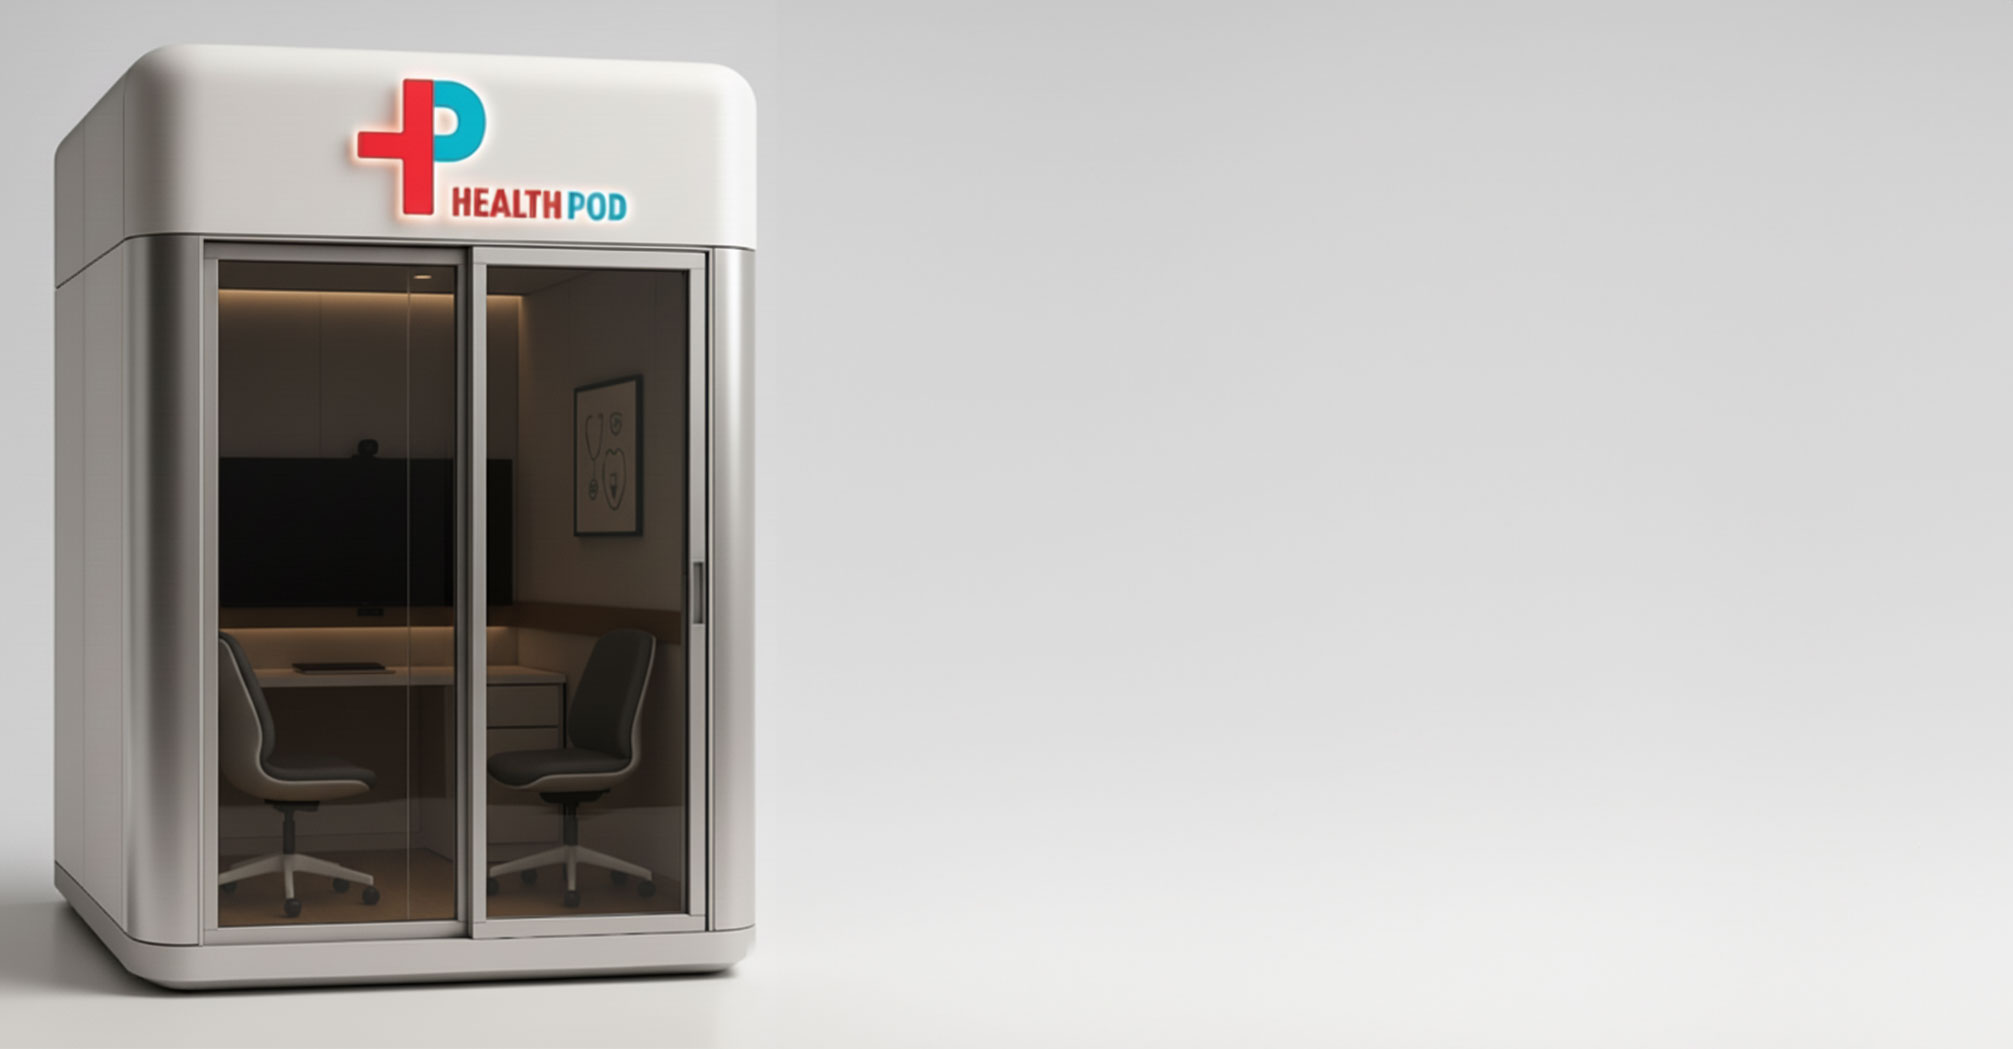
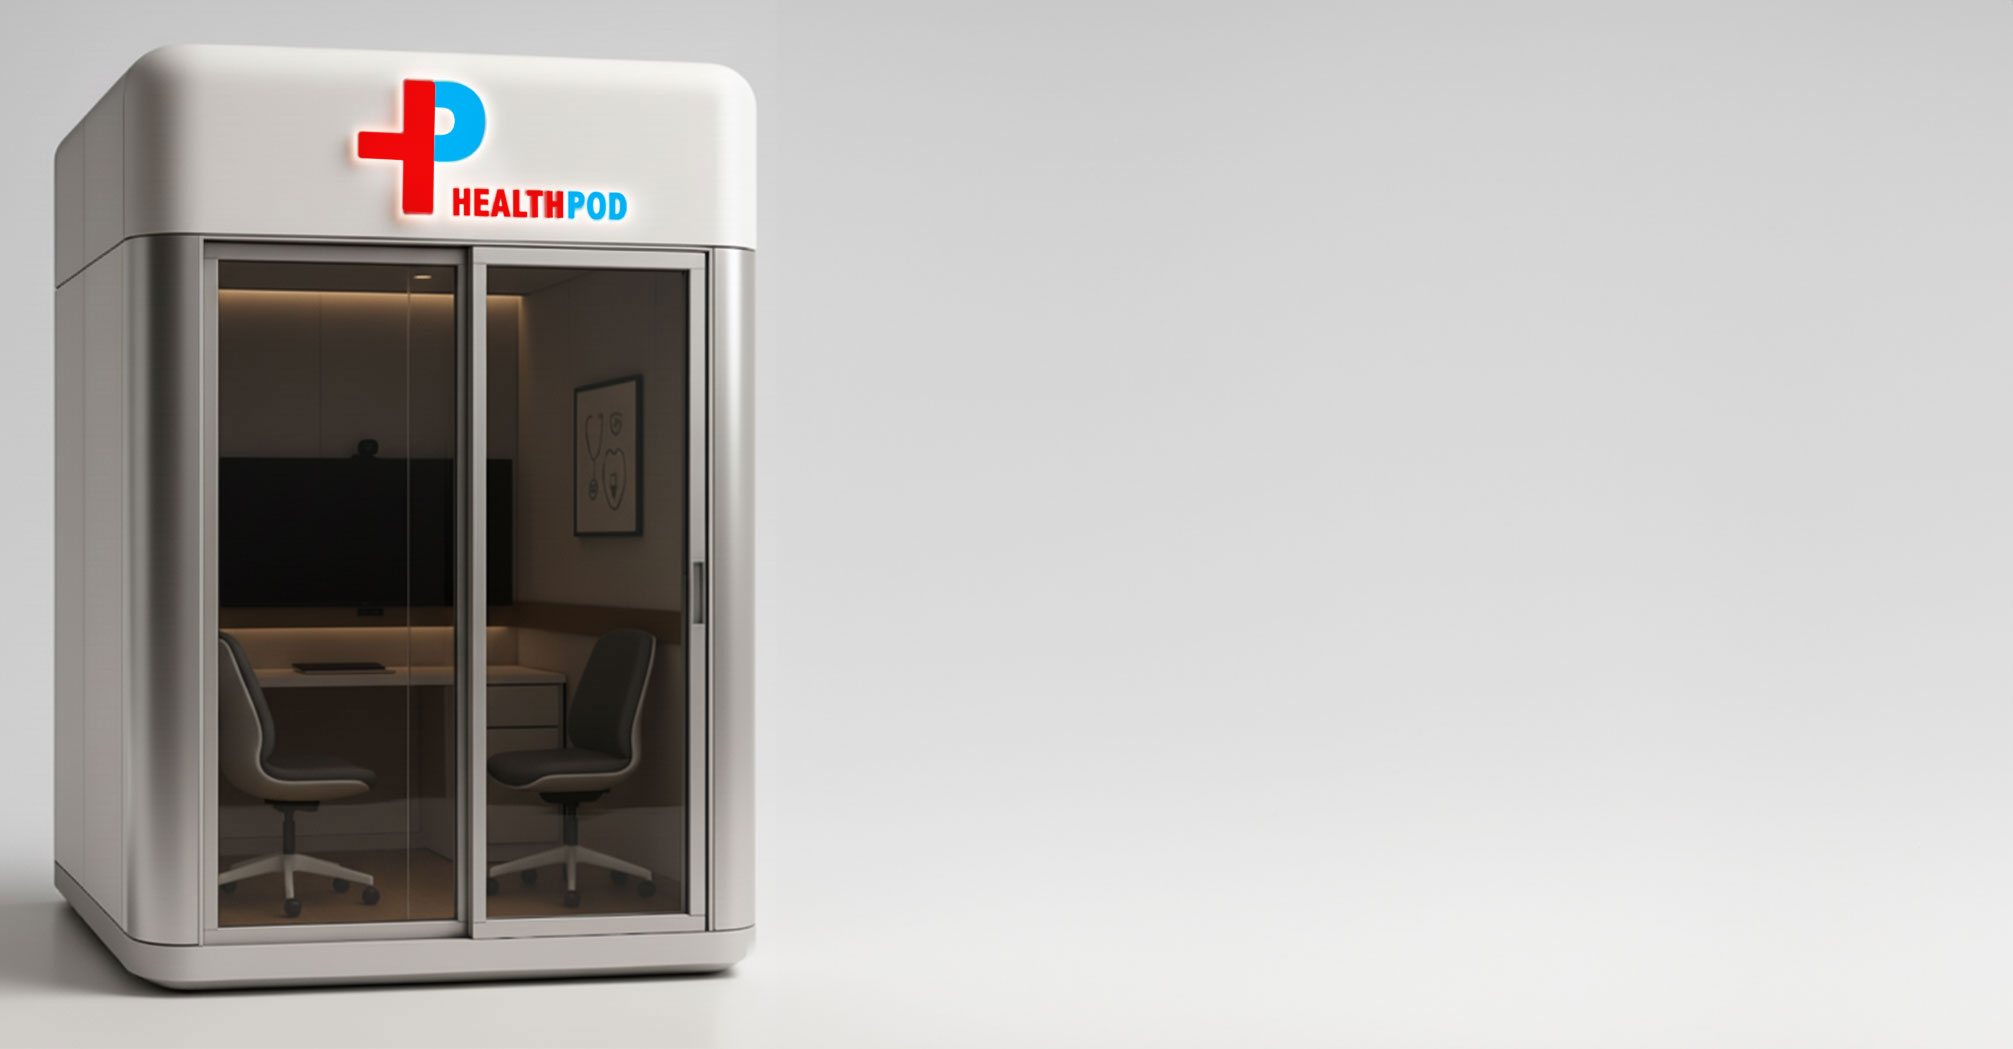
Cambios de colores y optimización de imagenes

Changed region(s): [[0.154, 0.061, 0.308, 0.2135]]

diff --git a/index.html b/index.html
@@ -38,7 +38,7 @@
       <nav class="navbar navbar-expand-lg">
         <div class="container">
           <a class="navbar-brand" href="#">
-            <img height="150" width="70" class="logo logo-dark" src="assets/images/icons/healthpod_logo.png"
+            <img height="150" width="70" class="logo logo-dark" src="assets/images/logo/healthpod-logo.png"
               alt="HealthPod Logo" />
           </a>
 
@@ -79,7 +79,7 @@
     <div class="carousel-hero-banner">
         <div class="carousel-images">
             <div class="carousel-slide active">
-                <img src="assets/images/background/Hero_Section-black.png" alt="Image 1">
+                <img src="assets/images/background/Hero_Section-black.jpg" alt="Image 1">
                       <div class="container">
         <div class="row row-content">
           <div id="lq-glass" class="col-12 col-md-6 col-lg-6">
@@ -102,7 +102,7 @@
       </div>
             </div>
             <div class="carousel-slide">
-                <img src="assets/images/background/Hero_Section-black(2).png" alt="Image 2">
+                <img src="assets/images/background/Hero_Section-black(2).jpg" alt="Image 2">
       <div class="container">
         <div class="row row-content">
           <div id="lq-glass" class="col-12 col-md-6 col-lg-6">
@@ -199,7 +199,7 @@
           <div class="col-md-4">
             <div class="pharmacy-card">
               <h3 class="heading-title">Videoconsultas en Pods: Tu espacio privado de salud.</h3>
-              <img src="assets/images/Imagery/consulta-en-pod.png" alt="Consulta médica por videollamada"
+              <img src="assets/images/Imagery/consulta-en-pod.jpg" alt="Consulta médica por videollamada"
                 class="img-fluid rounded mb-3">
               <p class="fw-medium">Atiende tus consultas médicas en cabinas diseñadas para tu comodidad, privacidad y bienestar. 
                 Video consultas Médicas Ilimitadas.</p>
@@ -210,7 +210,7 @@
           <div class="col-md-4">
             <div class="pharmacy-card">
               <h3 class="heading-title">Farmacia virtual 24/7: Medicamentos sin salir de casa.</h3>
-              <img src="assets/images/Imagery/pharmacy2.png" alt="Solicita tu medicamento"
+              <img src="assets/images/Imagery/pharmacy2.jpg" alt="Solicita tu medicamento"
                 class="img-fluid rounded mb-3">
               <p class="fw-medium">Accede a nuestra farmacia virtual 24/7 con entrega a domicilio gratuita y soporte personalizado.</p>
             </div>
@@ -240,17 +240,17 @@
 
           <!-- Columna de la imagen (ahora a la izquierda) -->
           <div class="col-12 col-md-6 col-lg-6">
-            <img class="img-fluid img-shadow pull-left" src="assets/images/features/about.png" alt="about" />
+            <img class="img-fluid img-shadow pull-left" src="assets/images/Imagery/about-healthpod.jpg" alt="about" />
           </div>
           <!-- .col-md-6 end -->
 
           <!-- Columna del contenido (ahora a la derecha) -->
           <div class="col-12 col-md-6 col-lg-6">
             <div class="heading heading-1 mb-50 mt-30">
-              <h2 class="heading-title">Somos <strong style="color:#CB3631;">HEALTH<span
-                    style="color:#56A9DD;">POD</span></strong></h2>
+              <h2 class="heading-title">Somos <strong style="color: #df0808;">HEALTH<span
+                    style="color:#00adef;">POD</span></strong></h2>
               <p class="heading-desc">
-                <strong style="color:#CB3631;">HEALTH<span style="color:#56A9DD;">POD</span></strong>: el
+                <strong style="color:#df0808;">HEALTH<span style="color:#00adef;">POD</span></strong>: el
                 ecosistema de salud que mereces, disponibles todo el tiempo y en donde te encuentres. Unimos el
                 diagnóstico físico de alta precisión con tecnología de punta, consultas profesionales en tiempo real y
                 farmacia a domicilio 24/7 para que nunca te preocupes, todo con solo una membresía.
@@ -287,12 +287,12 @@
 
     <!-- Motivation -->
     <section id="motivation" class="motivation text-center section feature feature-left bg-white"
-      style="background-image: url(assets/images/background/site_background.png);">
+      style="background-image: url(assets/images/background/site_background.jpg);">
       <div class="container">
         <img src="assets/images/icons/star.svg" alt="Consulta médica por videollamada" class="img-fluid rounded mb-3">
         <h2 class="mb-4">¡Lo que nos motiva!</h2>
-        <p class="heading-desc">En <strong style="color:#CB3631;">HEALTH<span
-              style="color:#56A9DD;">POD</span></strong> nos mueve una idea clara: Tu salud es siempre lo más
+        <p class="heading-desc">En <strong style="color:#df0808;">HEALTH<span
+              style="color:#00adef;">POD</span></strong> nos mueve una idea clara: Tu salud es siempre lo más
           importante. Creemos en la tecnología como un puente para una mejor salud, de alto nivel y largo alcance. A
           cada persona cuidaremos en cada consulta, cada visita al Pod y en cada medicamento entregado.
         </p>
@@ -317,7 +317,7 @@
           </div>
           <div class="col">
             <div class="feature-icon">
-              <img src="assets/images/icons/healthpod_logo-page.png" alt="Farmacia cercana"
+              <img src="assets/images/icons/hand_and_heart.png" alt="Farmacia cercana"
                 class="img-fluid rounded mb-3">
             </div>
             <p class="fw-semibold">Fácil Acceso</p>
@@ -440,15 +440,15 @@
 
           <!-- Columna de la imagen (ahora a la izquierda) -->
           <div class="col-12 col-md-6 col-lg-6">
-            <img class="img-fluid img-shadow pull-left" src="assets/images/Imagery/HealthPod_render.png" alt="about" />
+            <img class="img-fluid img-shadow pull-left" src="assets/images/Imagery/HealthPod_render.jpg" alt="about" />
           </div>
           <!-- .col-md-6 end -->
 
           <!-- Columna del contenido (derecha) -->
           <div class="col-12 col-md-6 col-lg-6">
             <div class="heading heading-1 mb-50 mt-30">
-              <h2 class="heading-title"><strong style="color:#CB3631;">HEALTH<span
-                    style="color:#56A9DD;">POD</span></strong> Tú salud estés donde estés.</h2>
+              <h2 class="heading-title"><strong style="color:#df0808;">HEALTH<span
+                    style="color:#00adef;">POD</span></strong> Tú salud estés donde estés.</h2>
               <p class="heading-desc">
                 Nuestro ecosistema inteligente acerca la atención médica de calidad a tu entorno: <br><br>
                 ✔ Diagnóstico físico de precisión <br>
@@ -456,7 +456,7 @@
                 ✔ Farmacia integrada<br>
                 ✔ Todo en un solo lugar.
                 <br><br>
-                <strong style="color:#CB3631;">HEALTH<span style="color:#56A9DD;">POD</span></strong> no es solo un
+                <strong style="color:#df0808;">HEALTH<span style="color:#00adef;">POD</span></strong> no es solo un
                 beneficio de salud, es un valor agregado que distingue a los espacios más
                 exclusivos.
               </p>
@@ -474,9 +474,10 @@
     <!-- Pricing Section -->
     <section class="pricing-section" id="pricing-section">
       <div class="container">
-        <h2 class="heading-title">Membresías <strong style="color:#CB3631;">HEALTH<span
-              style="color:#56A9DD;">POD</span></strong>: <br>Un Ecosistema. Una membresía. Cero Complicaciones.</h2>
-        <p class="text-muted mb-5">El acceso a la revolución HealthPod es simple. Todos los planes incluyen el 100% de
+        <h2 class="heading-title">Membresías <strong style="color:#df0808;">HEALTH<span
+              style="color:#00adef;">POD</span></strong>: <br>Un Ecosistema. Una membresía. Cero Complicaciones.</h2>
+        <p class="text-muted mb-5">El acceso a la revolución <strong style="color:#df0808;">HEALTH<span
+              style="color:#00adef;">POD</span></strong> es simple. Todos los planes incluyen el 100% de
           nuestro ecosistema: Pods de Diagnóstico, Telemedicina 24/7 y Farmacia Virtual.</p>
         <div class="toggle">
           <label class="plan me-2">Plan Anual</label>
@@ -560,10 +561,10 @@
           <div class="col-12 col-md-6 col-lg-6">
             <div class="feature-panel">
               <div class="feature-content">
-                <h3><strong style="color:#CB3631;">HEALTH<span style="color:#56A9DD;">POD:</span></strong> bienestar de
+                <h3><strong style="color:#df0808;">HEALTH<span style="color:#00adef;">POD:</span></strong> bienestar de
                   primer nivel en tu residencial u oficina</h3>
                 <p class="mb-30">
-                  Lleva <strong style="color:#CB3631;">HEALTH<span style="color:#56A9DD;">POD</span></strong> a tu
+                  Lleva <strong style="color:#df0808;">HEALTH<span style="color:#00adef;">POD</span></strong> a tu
                   espacio. <br><br>
                   Instala un Pod y ofrece atención médica inmediata, diagnósticos precisos y farmacia integrada sin
                   salir de tus instalaciones.
@@ -692,7 +693,7 @@
 
         <!-- Imagen de Membresía -->
         <img 
-          src="https://angelalan-mcllent.github.io/Healthpod/assets/images/Imagery/Membresia_HP.png" 
+          src="assets/images/Imagery/Membresia_HP.jpg" 
           alt="Membresía HealthPod" 
           class="img-fluid rounded-3 shadow-sm mb-4"
           style="max-width: 380px;"

diff --git a/assets/css/style.css b/assets/css/style.css
@@ -1166,8 +1166,8 @@ section {
 
 /* Button Primary */
 .btn--primary {
-  background-color: var(--primary);
-  border-color: var(--primary);
+  background-color: #0069ff;
+  border-color: #0069ff;
   color: #ffffff;
   box-shadow: 8px 4px 8px #0000007d;
 }
@@ -1175,8 +1175,8 @@ section {
 .btn--primary:active,
 .btn--primary:focus,
 .btn--primary:hover {
-  background-color: #CB3631;
-  border-color: #CB3631;
+  background-color: #df0808;
+  border-color: #df0808;
   color: #ffffff;
   box-shadow: inset 8px 4px 8px #0000007d;
 }
@@ -1207,8 +1207,8 @@ section {
 
 /* Button Secondary*/
 .btn--secondary {
-  color: var(--primary);
-  border-color: var(--primary);
+  color: #0069ff;
+  border-color: #0069ff;
   background-color: #ffffff;
   box-shadow: 8px 4px 8px #0000007d;
 }
@@ -1217,8 +1217,8 @@ section {
 .btn--secondary:focus,
 .btn--secondary:hover {
   background-color: #FFFFFF;
-  color: #CB3631;
-  border-color: #CB3631;
+  color: #df0808;
+  border-color: #df0808;
   box-shadow: inset 8px 4px 8px #0000007d;
 }
 
@@ -2086,7 +2086,7 @@ header.sticky-top {
 \*------------------------------------*/
 .promobar {
   position: relative;
-  background-color: #CB3631;
+  background-color: #df0808;
   color: #fff;
   text-align: center;
   font-size: 2rem;

diff --git a/404.html b/404.html
@@ -36,7 +36,7 @@
       <nav class="navbar navbar-expand-lg">
         <div class="container">
           <a class="navbar-brand" href="index.html">
-            <img height="150" width="70" class="logo logo-dark" src="assets/images/icons/healthpod_logo.png"
+            <img height="150" width="70" class="logo logo-dark" src="assets/images/logo/healthpod-logo.png"
               alt="HealthPod Logo" />
           </a>
 

diff --git a/en-construccion.html b/en-construccion.html
@@ -36,7 +36,7 @@
       <nav class="navbar navbar-expand-lg">
         <div class="container">
           <a class="navbar-brand" href="index.html">
-            <img height="150" width="70" class="logo logo-dark" src="assets/images/icons/healthpod_logo.png"
+            <img height="150" width="70" class="logo logo-dark" src="assets/images/logo/healthpod-logo.png"
               alt="HealthPod Logo" />
           </a>
 
